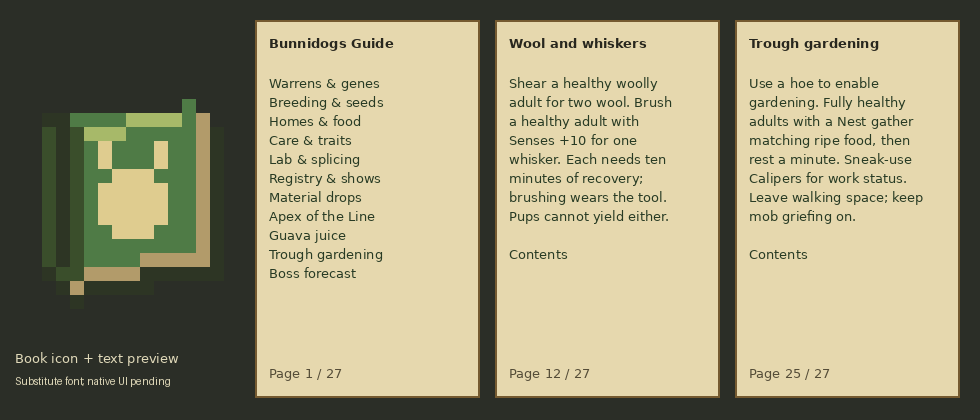
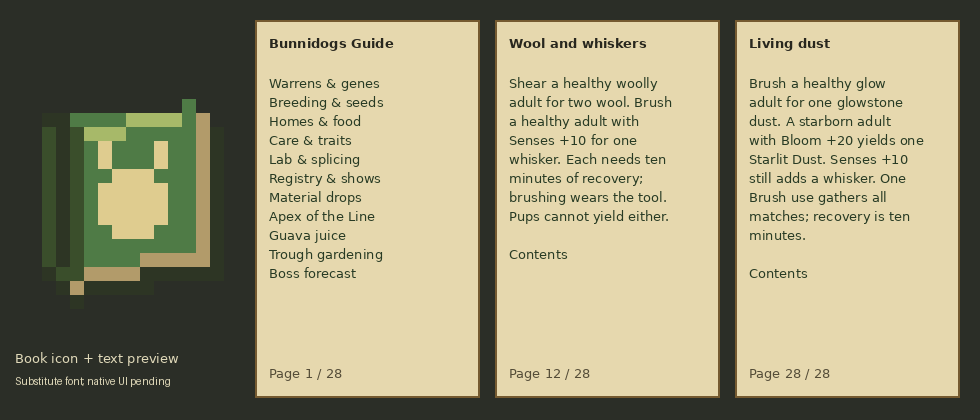
Gather renewable dust from living glow and starborn lines

Changed region(s): [[0.7653, 0.1857, 0.949, 0.5262], [0.7653, 0.5571, 0.8265, 0.681], [0.7653, 0.0929, 0.9184, 0.1238]]

diff --git a/tools/gametest/java/com/bunnidogs/mod/entity/GroomingGameTest.java b/tools/gametest/java/com/bunnidogs/mod/entity/GroomingGameTest.java
@@ -1,6 +1,7 @@
 package com.bunnidogs.mod.entity;
 
 import com.bunnidogs.mod.genetics.Genome;
+import com.bunnidogs.mod.genetics.Gene;
 import com.bunnidogs.mod.genetics.Grooming;
 import com.bunnidogs.mod.genetics.Stats;
 import com.bunnidogs.mod.registry.ModEntities;
@@ -9,8 +10,10 @@ import net.minecraft.gametest.framework.GameTestHelper;
 import net.minecraft.util.ProblemReporter;
 import net.minecraft.world.InteractionHand;
 import net.minecraft.world.entity.player.Player;
+import net.minecraft.world.entity.item.ItemEntity;
 import net.minecraft.world.item.ItemStack;
 import net.minecraft.world.item.Items;
+import net.minecraft.world.item.Item;
 import net.minecraft.world.level.GameType;
 import net.minecraft.world.level.storage.TagValueInput;
 import net.minecraft.world.level.storage.TagValueOutput;
@@ -19,10 +22,13 @@ import net.minecraft.world.phys.Vec3;
 public final class GroomingGameTest {
     private GroomingGameTest() {}
     private static int whiskers(Player player) {
+        return count(player,ModItems.WHISKER.get());
+    }
+    private static int count(Player player, Item item) {
         int count = 0;
         for (int i = 0; i < player.getInventory().getContainerSize(); i++) {
             var stack = player.getInventory().getItem(i);
-            if (stack.is(ModItems.WHISKER.get())) count += stack.getCount();
+            if (stack.is(item)) count += stack.getCount();
         }
         return count;
     }
@@ -69,5 +75,58 @@ public final class GroomingGameTest {
         creative.interactOn(dog, InteractionHand.MAIN_HAND, Vec3.ZERO);
         h.assertTrue(whiskers(creative) == 1 && creativeBrush.getDamageValue() == 0 && dog.groomingWait() == Grooming.RECOVERY_TICKS,
                 "Creative must preserve the brush but keep animal recovery");
+        dust(h);
+    }
+    private static void dust(GameTestHelper h) {
+        var level = h.getLevel();
+        var dog = h.spawnWithNoFreeWill(ModEntities.BUNNIDOG.get(),5,1,3);
+        var player = h.makeMockPlayer(GameType.SURVIVAL);
+        var brush = new ItemStack(Items.BRUSH);
+        player.setItemInHand(InteractionHand.MAIN_HAND,brush);
+        int glow = Gene.COAT.alleleNamed("glow").id(), starborn = Gene.FERTILITY.alleleNamed("starborn").id();
+        dog.setAge(0); dog.setStats(Stats.ZERO); dog.setGenome(Genome.DEFAULT.with(Gene.COAT,1,glow));
+        dog.setHealth(dog.getMaxHealth());
+        player.interactOn(dog,InteractionHand.MAIN_HAND,Vec3.ZERO);
+        h.assertTrue(count(player,Items.GLOWSTONE_DUST) == 0 && dog.groomingWait() == 0 && brush.getDamageValue() == 0,
+                "Hidden glow must not yield dust or spend wear/recovery");
+        dog.setGenome(dog.genome().with(Gene.COAT,0,glow));
+        player.interactOn(dog,InteractionHand.MAIN_HAND,Vec3.ZERO);
+        h.assertTrue(count(player,Items.GLOWSTONE_DUST) == 1 && whiskers(player) == 0
+                && dog.groomingWait() == Grooming.RECOVERY_TICKS && brush.getDamageValue() == 1,
+                "Expressed glow must yield one dust without requiring bred Senses");
+        player.interactOn(dog,InteractionHand.MAIN_HAND,Vec3.ZERO);
+        h.assertTrue(count(player,Items.GLOWSTONE_DUST) == 1 && brush.getDamageValue() == 1,"Dust shares the ordinary grooming recovery");
+
+        var star = h.spawnWithNoFreeWill(ModEntities.BUNNIDOG.get(),5,1,5);
+        var starGenome = Genome.DEFAULT.with(Gene.FERTILITY,0,starborn).with(Gene.FERTILITY,1,starborn);
+        star.setGenome(starGenome.with(Gene.FERTILITY,1,Gene.FERTILITY.alleleNamed("swarm").id()));
+        star.setStats(Stats.of(0,0,0,0,20)); star.setAge(0); star.setHealth(star.getMaxHealth());
+        player.interactOn(star,InteractionHand.MAIN_HAND,Vec3.ZERO);
+        h.assertTrue(count(player,ModItems.STARLIT_DUST.get()) == 0 && star.groomingWait() == 0,"A hidden starborn allele must not yield dust");
+        star.setGenome(starGenome); star.setStats(Stats.of(0,0,0,0,19));
+        player.interactOn(star,InteractionHand.MAIN_HAND,Vec3.ZERO);
+        h.assertTrue(count(player,ModItems.STARLIT_DUST.get()) == 0 && star.groomingWait() == 0,"Starlit care must require Bloom +20");
+        star.setStats(Stats.of(0,0,0,0,20));
+        player.interactOn(star,InteractionHand.MAIN_HAND,Vec3.ZERO);
+        h.assertTrue(count(player,ModItems.STARLIT_DUST.get()) == 1 && brush.getDamageValue() == 2,
+                "The Bloom threshold must yield exactly one Starlit Dust with one tool wear");
+
+        var mixed = h.spawnWithNoFreeWill(ModEntities.BUNNIDOG.get(),3,1,5);
+        var mixedGenome = starGenome.with(Gene.COAT,0,glow).with(Gene.COAT,1,glow);
+        mixed.setGenome(mixedGenome); mixed.setStats(Stats.of(0,0,0,10,20)); mixed.setAge(0); mixed.setHealth(mixed.getMaxHealth());
+        var full = h.makeMockPlayer(GameType.SURVIVAL);
+        full.setPos(mixed.position());
+        for (int i = 0; i < full.getInventory().getContainerSize(); i++) full.getInventory().setItem(i,new ItemStack(Items.COBBLESTONE,64));
+        var fullBrush = new ItemStack(Items.BRUSH); full.setItemInHand(InteractionHand.MAIN_HAND,fullBrush);
+        float health = mixed.getHealth();
+        full.interactOn(mixed,InteractionHand.MAIN_HAND,Vec3.ZERO);
+        var drops = level.getEntitiesOfClass(ItemEntity.class,mixed.getBoundingBox().inflate(3));
+        for (var item : new Item[]{ModItems.WHISKER.get(),Items.GLOWSTONE_DUST,ModItems.STARLIT_DUST.get()}) {
+            h.assertTrue(drops.stream().filter(e -> e.getItem().is(item)).mapToInt(e -> e.getItem().getCount()).sum() == 1,
+                    "Each qualifying product must drop exactly once when the inventory is full: " + item);
+        }
+        h.assertTrue(fullBrush.getDamageValue() == 1 && mixed.groomingWait() == Grooming.RECOVERY_TICKS
+                && mixed.getHealth() == health && mixed.genome().equals(mixedGenome) && mixed.stats().equals(Stats.of(0,0,0,10,20)),
+                "Combined products must share one wear/recovery and preserve the living line");
     }
 }

diff --git a/src/main/java/com/bunnidogs/mod/entity/BunnidogGrooming.java b/src/main/java/com/bunnidogs/mod/entity/BunnidogGrooming.java
@@ -4,29 +4,44 @@ import com.bunnidogs.mod.genetics.Grooming;
 import com.bunnidogs.mod.genetics.Sampling;
 import com.bunnidogs.mod.registry.ModItems;
 import net.minecraft.network.chat.Component;
+import net.minecraft.network.chat.ComponentUtils;
 import net.minecraft.sounds.SoundEvents;
 import net.minecraft.world.InteractionHand;
 import net.minecraft.world.InteractionResult;
 import net.minecraft.world.entity.player.Player;
 import net.minecraft.world.item.ItemStack;
+import net.minecraft.world.item.Items;
 
 /** Native Brush entity interaction; all recovery belongs to the animal, not the tool/player. */
 final class BunnidogGrooming {
     private BunnidogGrooming() {}
     static InteractionResult use(Bunnidog dog, Player player, ItemStack brush, InteractionHand hand) {
         if (dog.level().isClientSide()) return InteractionResult.SUCCESS;
-        if (!dog.isAlive() || dog.isBaby() || !Sampling.healthy(dog.getHealth(), dog.getMaxHealth())) return message(player, "health");
-        if (!Grooming.developed(dog.stats())) return message(player, "senses");
+        if (!dog.acceptsCare() || !dog.isAlive() || dog.isBaby() || !Sampling.healthy(dog.getHealth(), dog.getMaxHealth())) return message(player, "health");
+        var products = Grooming.yields(dog.genome(),dog.stats());
+        if (products.isEmpty()) {
+            player.sendOverlayMessage(Component.translatable("message.bunnidogs.groom.traits",Grooming.MIN_SENSES,Grooming.MIN_STARLIT_BLOOM));
+            return InteractionResult.SUCCESS;
+        }
         if (dog.groomingWait() > 0) {
             player.sendOverlayMessage(Component.translatable("message.bunnidogs.groom.wait", (dog.groomingWait()+19)/20));
             return InteractionResult.SUCCESS;
         }
         dog.beginGroomingRecovery();
-        ItemStack whisker = new ItemStack(ModItems.WHISKER.get(), Grooming.COUNT);
-        if (!player.getInventory().add(whisker)) player.drop(whisker, false);
+        for (var product : products) {
+            var item = switch (product) {
+                case WHISKER -> ModItems.WHISKER.get();
+                case GLOWSTONE -> Items.GLOWSTONE_DUST;
+                case STARLIT -> ModItems.STARLIT_DUST.get();
+            };
+            ItemStack reward = new ItemStack(item,Grooming.COUNT);
+            if (!player.getInventory().add(reward)) player.drop(reward, false);
+        }
         brush.hurtAndBreak(1, player, hand);
         dog.playSound(SoundEvents.BRUSH_GENERIC, .4F, 1.1F);
-        return message(player, "done");
+        player.sendOverlayMessage(Component.translatable("message.bunnidogs.groom.collected",
+                ComponentUtils.formatList(products,p -> Component.translatable(p.translationKey()))));
+        return InteractionResult.SUCCESS;
     }
     private static InteractionResult message(Player player, String key) {
         player.sendOverlayMessage(Component.translatable("message.bunnidogs.groom." + key));

diff --git a/art/gen_guide.py b/art/gen_guide.py
@@ -31,6 +31,7 @@ PAGES = {
     25: ('Trough gardening', 'Use a hoe to enable gardening. Fully healthy adults with a Nest gather matching ripe food, then rest a minute. Sneak-use Calipers for work status. Leave walking space; keep mob griefing on.'),
     26: ('Furnished warrens', 'New dens have a trough with two guavas. Levels 3-5 have a central bell. New farms fit an empty enabled corner trough for matching crops. Crafted and old troughs need a hoe to enable work.'),
     27: ('Before the Apex', 'Hold Calipers in the main hand and a Tissue Sample in the other. Use an Apex Crucible for health, attacks and defenses. Empty-hand use lists missing offerings. Reading spends nothing.'),
+    28: ('Living dust', 'Brush a healthy glow adult for one glowstone dust. A starborn adult with Bloom +20 yields one Starlit Dust. Senses +10 still adds a whisker. One Brush use gathers all matches; recovery is ten minutes.'),
 }
 INDEX = {2:'Warrens & genes',4:'Breeding & seeds',8:'Homes & food',11:'Care & traits',15:'Lab & splicing',
          17:'Registry & shows',19:'Material drops',20:'Apex of the Line',24:'Guava juice',25:'Trough gardening',27:'Boss forecast'}
@@ -75,13 +76,13 @@ def main():
         bold = ImageFont.truetype('DejaVuSans-Bold.ttf',13)
     except OSError:
         font = bold = ImageFont.load_default()
-    for x,page in [(255,1),(495,12),(735,25)]:
+    for x,page in [(255,1),(495,12),(735,28)]:
         d.rectangle((x,20,x+224,397),fill=(230,216,174),outline=(117,90,48),width=2)
         d.text((x+14,35), 'Bunnidogs Guide' if page == 1 else PAGES[page][0], font=bold,fill=(40,39,30))
         if page == 1: body = '\n'.join(INDEX.values())
         else: body = '\n'.join(textwrap.wrap(PAGES[page][1],25)) + '\n\nContents'
         d.multiline_text((x+14,75),body,font=font,spacing=6,fill=(40,59,36))
-        d.text((x+14,365),f'Page {page} / 27',font=font,fill=(85,77,56))
+        d.text((x+14,365),f'Page {page} / {max(PAGES)}',font=font,fill=(85,77,56))
     d.text((15,350),'Book icon + text preview',font=font,fill=(224,217,185))
     d.text((15,375),'Substitute font; native UI pending',font=ImageFont.load_default(),fill=(224,217,185))
     preview.save(ROOT/'art/guide_preview.png')

diff --git a/src/main/java/com/bunnidogs/mod/item/CalipersItem.java b/src/main/java/com/bunnidogs/mod/item/CalipersItem.java
@@ -18,6 +18,7 @@ import com.bunnidogs.mod.network.ModNetwork;
 
 import net.minecraft.ChatFormatting;
 import net.minecraft.network.chat.Component;
+import net.minecraft.network.chat.ComponentUtils;
 import net.minecraft.server.level.ServerPlayer;
 import net.minecraft.world.InteractionHand;
 import net.minecraft.world.InteractionResult;
@@ -67,9 +68,12 @@ public class CalipersItem extends Item {
         careRow(player, "fleece", dog.isBaby() ? adult
                 : !dog.genome().expressed(Gene.BUILD).name().equals("woolly") ? Component.translatable("message.bunnidogs.care.woolly")
                 : !healthy ? health : recovery(dog.fleeceWait()));
+        var products = Grooming.yields(dog.genome(),dog.stats());
         careRow(player, "grooming", dog.isBaby() ? adult
-                : !Grooming.developed(dog.stats()) ? Component.translatable("message.bunnidogs.care.senses", Grooming.MIN_SENSES)
-                : !healthy ? health : recovery(dog.groomingWait()));
+                : products.isEmpty() ? Component.translatable("message.bunnidogs.groom.traits",Grooming.MIN_SENSES,Grooming.MIN_STARLIT_BLOOM)
+                : !healthy ? health : dog.groomingWait() > 0 ? recovery(dog.groomingWait())
+                : Component.translatable("message.bunnidogs.care.groom_ready",
+                        ComponentUtils.formatList(products,p -> Component.translatable(p.translationKey()))));
         careRow(player, "splicing", dog.isBaby() ? adult : !healthy ? health
                 : dog.splicingWait() > 0 ? recovery(dog.splicingWait()) : Component.translatable("message.bunnidogs.care.splice_ready"));
         var work = dog.gardeningStatus();

diff --git a/src/main/java/com/bunnidogs/mod/genetics/Grooming.java b/src/main/java/com/bunnidogs/mod/genetics/Grooming.java
@@ -1,10 +1,27 @@
 package com.bunnidogs.mod.genetics;
 
-/** Loose-whisker care: only a developed Senses line, with conservative renewable yield. */
+import java.util.ArrayList;
+import java.util.List;
+
+/** Conservative loose materials from living adults; every product shares one grooming recovery. */
 public final class Grooming {
     private Grooming() {}
     public static final int MIN_SENSES = 10;
+    public static final int MIN_STARLIT_BLOOM = 20;
     public static final int COUNT = 1;
     public static final int RECOVERY_TICKS = 10 * 60 * 20;
+    public enum Yield {
+        WHISKER("item.bunnidogs.whisker"), GLOWSTONE("item.minecraft.glowstone_dust"), STARLIT("item.bunnidogs.starlit_dust");
+        private final String translationKey;
+        Yield(String translationKey) { this.translationKey = translationKey; }
+        public String translationKey() { return this.translationKey; }
+    }
     public static boolean developed(Stats stats) { return stats.get(Stat.SENSES) >= MIN_SENSES; }
+    public static List<Yield> yields(Genome genome, Stats stats) {
+        List<Yield> out = new ArrayList<>();
+        if (developed(stats)) out.add(Yield.WHISKER);
+        if (genome.expressed(Gene.COAT).name().equals("glow")) out.add(Yield.GLOWSTONE);
+        if (genome.expressed(Gene.FERTILITY).name().equals("starborn") && stats.get(Stat.BLOOM) >= MIN_STARLIT_BLOOM) out.add(Yield.STARLIT);
+        return List.copyOf(out);
+    }
 }

diff --git a/src/main/java/com/bunnidogs/mod/genetics/Adaptations.java b/src/main/java/com/bunnidogs/mod/genetics/Adaptations.java
@@ -28,7 +28,7 @@ public final class Adaptations {
         if (gene == Gene.COAT && allele.name().equals("void")) return "Immune to levitation; shulker impacts and falls still hurt.";
         if (gene == Gene.LEGS && allele.name().equals("hoofed")) return "Takes half the usual fall damage.";
         if (gene == Gene.COAT && allele.name().equals("slate")) return "+4 natural armor against ordinary attacks; armor-bypassing damage still hurts.";
-        if (gene == Gene.COAT && allele.name().equals("glow")) return "Self-lit coat in darkness. Does not light nearby blocks.";
+        if (gene == Gene.COAT && allele.name().equals("glow")) return "Self-lit coat in darkness; does not light nearby blocks. Brush healthy adults for one glowstone dust every ten minutes.";
         if (gene == Gene.BUILD && allele.name().equals("stocky")) return "+15% knockback resistance.";
         if (gene == Gene.BUILD && allele.name().equals("chonker")) return "+30% knockback resistance.";
         return "";

diff --git a/src/main/java/com/bunnidogs/mod/genetics/Plain.java b/src/main/java/com/bunnidogs/mod/genetics/Plain.java
@@ -185,7 +185,7 @@ public final class Plain {
         note(Gene.FERTILITY, "shy", "Shy: has small litters, slowly.");
         note(Gene.FERTILITY, "swarm", "Swarm: breeds like a swarm.");
         note(Gene.FERTILITY, "starborn",
-                "Starborn: it turns Bloom into extra seed quality, at a toll on Vitality and Senses each generation.");
+                "Starborn: it turns Bloom into extra seed quality, at a toll on Vitality and Senses each generation. Brush healthy adults with Bloom +20 for one Starlit Dust every ten minutes.");
         for (Diet diet : Diet.values()) note(Gene.DIET, diet.key(), diet.foods()
                 + " Guavas remain its breeding food; other accepted foods heal or grow pups, without starting love.");
     }

diff --git a/src/main/java/com/bunnidogs/mod/item/FieldGuideItem.java b/src/main/java/com/bunnidogs/mod/item/FieldGuideItem.java
@@ -11,7 +11,7 @@ import net.minecraft.world.item.component.WrittenBookContent;
 
 /** Native book UI/packets, translated pages and local page links; no custom screen or payload. */
 public final class FieldGuideItem extends WrittenBookItem {
-    public static final int PAGE_COUNT = 27;
+    public static final int PAGE_COUNT = 28;
     public FieldGuideItem(Properties properties) {
         super(properties.component(DataComponents.WRITTEN_BOOK_CONTENT, content()));
     }

diff --git a/docs/CARE_SPECS.md b/docs/CARE_SPECS.md
@@ -71,6 +71,31 @@ transport/mobGriefing requirements and saved recovery. It shares the AI's cheap
 eligibility result, and states the enabled trough/ripe matching food/path needs
 without performing a work search. See `SETTLEMENT_LIFE.md`.
 
+## C5: Living dust
+
+Rare lines can now supply modest materials while alive. Brushing an expressed
+glow adult yields one vanilla glowstone dust. Brushing an expressed starborn
+adult with at least +20 bred Bloom yields one existing Starlit Dust. These
+requirements are independent of the +10 Senses requirement for loose whiskers.
+Only expressed alleles count; hidden glow/starborn copies yield no dust.
+
+Every qualifying product is gathered together, exactly one each, for one Brush
+durability and the same ten-minute saved `GroomWait`. There are no separate
+per-product timers to bypass by swapping genes or tools. All products require
+a living adult at least half healthy; the Apex remains ineligible. Full
+inventories drop each remainder normally, and creative preserves the Brush
+while retaining recovery. Age, health, genes, bred stats and love are preserved.
+Existing death-drop yields, marrow and legendary progression remain unchanged.
+
+Calipers names the currently available products, or explains the alternative
+trait/stat requirements. Normal Brush feedback names what was collected.
+Gene hovers describe the renewable sources, and the Field Guide grows to 28
+pages. The existing native grooming case covers hidden traits, Bloom +19/+20,
+individual/combined products, shared refusal and inventory overflow alongside
+the original age/health/save/creative/tool-breakage checks. Actual build and all
+eighteen native scenarios pass; the updated guide preview is inspected. Client
+interaction and long-term production balance still need gameplay review.
+
 ## A1/A2: Expressed environmental adaptations
 
 | Expressed trait | Benefit |

diff --git a/START_HERE.md b/START_HERE.md
@@ -45,6 +45,20 @@ builds from GitHub. Actions now uploads the validated JAR as a run artifact.
 
 ## Current gameplay work — 2026-10-16
 
+**Care C5 — living dust:** one Brush use gathers all qualifying products:
+one loose whisker at Senses +10, one glowstone dust from an expressed glow coat,
+and one Starlit Dust from expressed starborn with Bloom +20. Adults must be at
+least half healthy. All products share one tool wear and the saved ten-minute
+grooming recovery; overflow drops normally. Hidden traits yield nothing and
+the animal's health/genes/stats are preserved. Calipers names available products,
+gene hovers explain the sources and the Field Guide now has 28 pages.
+
+The existing native grooming case now checks hidden traits, Bloom thresholds,
+exact individual/combined yield, one shared wear/recovery and full inventory.
+Actual build and all eighteen native scenarios pass; the updated guide preview
+is inspected. Client use and production balance remain gameplay review. See
+`docs/CARE_SPECS.md` C5.
+
 **Settlement L5 — work readiness and farm troughs:** sneak-use Calipers now
 includes gardening, sharing the AI's own blockers and saved recovery snapshot.
 Ready means ready to search, with trough/crop/path requirements stated; reading
@@ -69,7 +83,7 @@ for source appearance, health, normal/enraged melee damage, inherited defenses,
 awareness, pursuit increase and approximate pounce height. Readiness and spawning
 share one loaded eight-slot scan; preview rules/base defenses are shared with
 the real boss. No entity, item cost, GUI, payload or saved field is introduced.
-The Field Guide now has 27 pages and eleven contents links.
+The Field Guide now has 28 pages and eleven contents links.
 
 The combined actual build/server run passes all eighteen scenarios. The extended
 native Apex case confirms read-only inspection/forecast and the actual boss's

diff --git a/docs/ROADMAP.md b/docs/ROADMAP.md
@@ -16,6 +16,11 @@ and mouths, **H3b** house floor Nests. V1a, V1b, H3 and H4 WORK.
 
 ## Latest implemented work (gameplay pending)
 
+C5 adds renewable glowstone and Starlit Dust from carefully qualified living
+lines using the existing Brush/recovery. Product eligibility is expressed-trait
+based and combined products share one wear/timer. Calipers and the 28-page
+guide explain the sources. See `CARE_SPECS.md`.
+
 L5 adds Calipers gardening readiness/recovery and safely fitted empty enabled
 troughs in new farm corners, retaining the old footprint and legacy starts.
 AI and inspection share eligibility; unsupported walking space keeps the old
@@ -119,7 +124,7 @@ filling a quota, and honor any explicit pause in the current request.
 
 | Item | What | Needs | Spec |
 |---|---|---|---|
-| Living harvest extensions | Additional renewable materials beyond fleece and brushed whiskers, with conservative yields/recovery | C1–C3 | `CARE_SPECS.md`; define each source/yield before coding |
+| Further living harvests | Other fitting renewable materials beyond fleece, whiskers and glow/starborn dust | C1–C5 | `CARE_SPECS.md`; define each source/yield before coding |
 | Additional lineage behavior | Useful cave/terrain adaptations beyond current fire/cold/fall/poison/cactus/levitation rules | A1/A2 | Follow expressed genes; preserve native hazards and breeding tradeoffs |
 
 ## Ideas without a spec (design before implementing)

diff --git a/docs/FIELD_GUIDE.md b/docs/FIELD_GUIDE.md
@@ -5,6 +5,7 @@ founders, genes, breeding/seeds/quality, pedigree, Nests and transport, food,
 bell gatherings, living care, adaptations, table/splicing, stable lines,
 shows, materials, legendary drops, the Apex and infused juice.
 The gardening pages include Calipers work status and new fitted corner troughs.
+Living-dust care has its own page explaining combined yields and shared recovery.
 
 Craft one with a vanilla book and any guava (the existing bunnidog-food tag).
 Obtaining a guava unlocks its recipe. An additional independent 35% pantry loot
@@ -14,7 +15,7 @@ not refilled and player inventories are not edited.
 
 ## Presentation and saves
 
-Twenty-seven pages use the ordinary written-book screen. Page 1 has eleven clickable
+Twenty-eight pages use the ordinary written-book screen. Page 1 has eleven clickable
 chapter links; every other page links back to the contents. Local page changes
 are the only click action. All text is translatable through en_us.json. The
 book stacks to one and appears beside the Calipers in Tools & Utilities.
